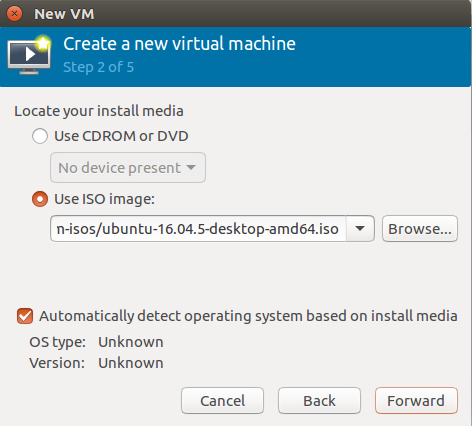
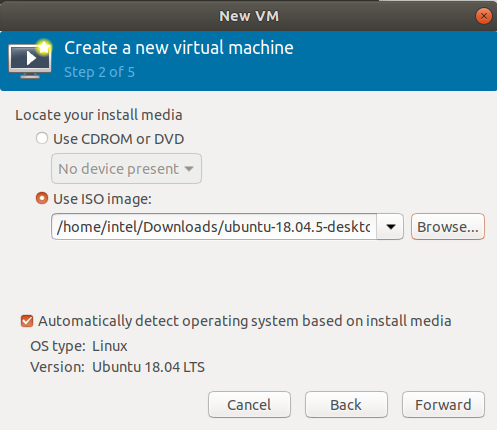
Porting to OpenVINO 2020.3

diff --git a/README.md b/README.md
@@ -1,7 +1,7 @@
 # Industrial Anomaly Detection
 | Details            |                 |
 |-----------------------|------------------|
-| Target OS:            |  Ubuntu* 16.04 LTS     |
+| Target OS:            |  Ubuntu* 18.04 LTS     |
 | Time to complete:     |  3 hours      |
 
 ## Introduction
@@ -13,13 +13,13 @@ Factories use existing PLCs to control equipment and may use several different d
 [IEI Tank* AIoT Developer Kit](https://software.intel.com/en-us/iot/hardware/iei-tank-dev-kit)
 
 ### Software
-* Ubuntu 16.04
+* Ubuntu 18.04
 * InfluxDB* v1.7.1
 * Grafana* v5.3.2
 
 ## How It Works
 
-In this application, KVM creates three guest VMs on a host machine. Each virtual machine runs with Ubuntu 16.04 as the operating system. The first machine, named OFD, runs the object flaw detector application. The object flaw detector application detects anomalies on the objects moving on a conveyer belt and stores this data locally on InfluxDB. The second machine, named MDD, hosts the motor defect detector application which also stores the data locally on InfluxDB. Data visualization occurs on Grafana* on the third virtual machine, HMI, using data from OFD and MDD InfluxDB.
+In this application, KVM creates three guest VMs on a host machine. Each virtual machine runs with Ubuntu 18.04 as the operating system. The first machine, named OFD, runs the object flaw detector application. The object flaw detector application detects anomalies on the objects moving on a conveyer belt and stores this data locally on InfluxDB. The second machine, named MDD, hosts the motor defect detector application which also stores the data locally on InfluxDB. Data visualization occurs on Grafana* on the third virtual machine, HMI, using data from OFD and MDD InfluxDB.
 
 ![archDiagram](./images/archDiagram.png)
 
@@ -55,7 +55,7 @@ In this application, KVM creates three guest VMs on a host machine. Each virtual
 
 4. Reboot the system to make your user an effective member of *libvirtd* user group.
 
-5. To create virtual machine with Ubuntu 16.04 as a guest operating system, download 64-bit PC desktop ubuntu image from [Ubuntu 16.04 LTS](http://releases.ubuntu.com/16.04/).
+5. To create virtual machine with Ubuntu 18.04 as a guest operating system, download 64-bit PC desktop ubuntu image from [Ubuntu 18.04 LTS](http://releases.ubuntu.com/18.04/).
 
 6. Create a directory for storage pool: 
 	```
@@ -82,7 +82,7 @@ In this application, KVM creates three guest VMs on a host machine. Each virtual
 
 		![WC3](./images/WC3.png)	
 
-	* In the next window set *Memory(RAM)* to **1024 MiB** and *CPUs* to **1**, then click on Forward Button. You may need to increase the memory(RAM) of the VM to 4096 MiB temporarily when compiling the code samples and change back to 1024 MiB after.
+	* In the next window set *Memory(RAM)* to **1024 MiB** and *CPUs* to **4**, then click on Forward Button. You may need to increase the memory(RAM) of the VM to 4096 MiB temporarily when compiling the code samples and change back to 1024 MiB after.
 
 		![WC4](./images/WC4.png) 
 
